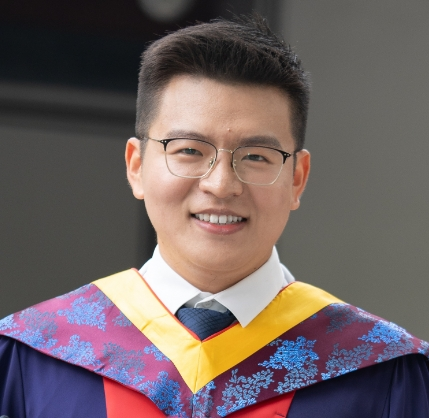
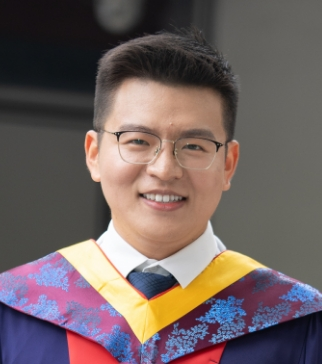
asd

Changed region(s): [[0.0, 0.0, 1.0, 1.0], [0.8696, 0.9066, 0.9938, 1.0], [0.0, 0.3022, 0.0932, 0.3324]]

diff --git a/team/index.html b/team/index.html
@@ -497,7 +497,7 @@
 
 
 <div class="portrait-wrapper">
-  <a href="/members/pingcheng-dong.html" class="portrait" data-style="" aria-label="Songchen Ma">
+  <a href="/members/songchen-ma.html" class="portrait" data-style="" aria-label="Songchen Ma">
     <img src="/images/people/songchen.png" class="portrait-image" alt="member portrait" loading="lazy" onerror="this.src = '/images/fallback.svg'; this.onerror = null;">
 
     
